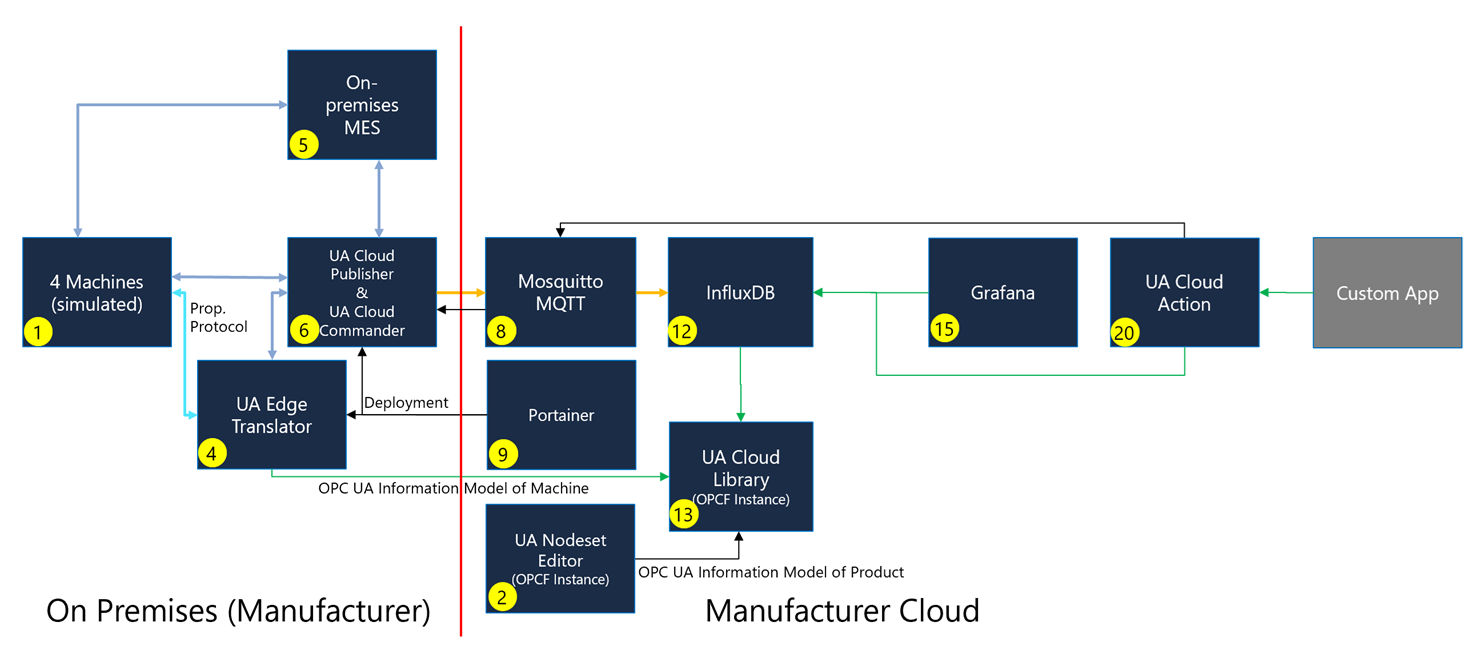
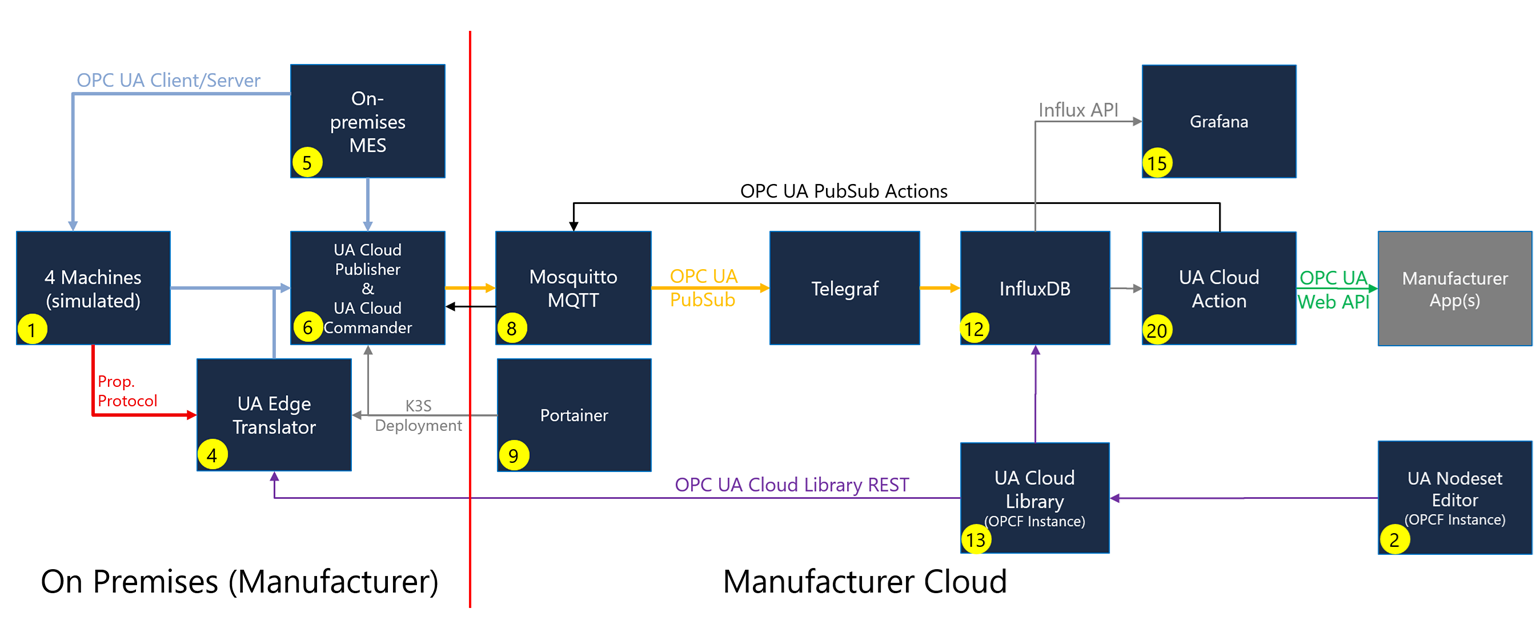
Update arch pic and small doc improvement.

Changed region(s): [[0.0, 0.0609, 1.0, 0.9744]]

diff --git a/README.md b/README.md
@@ -299,7 +299,7 @@ sudo chown "$(id -u):$(id -g)" ~/.kube/config
 export KUBECONFIG=~/.kube/config
 echo 'export KUBECONFIG=~/.kube/config' >> ~/.bashrc
 
-kubectl get nodes
+kubectl get nodes -A
 ```
 
 > K3s ships with the **Traefik** ingress controller and a built-in
